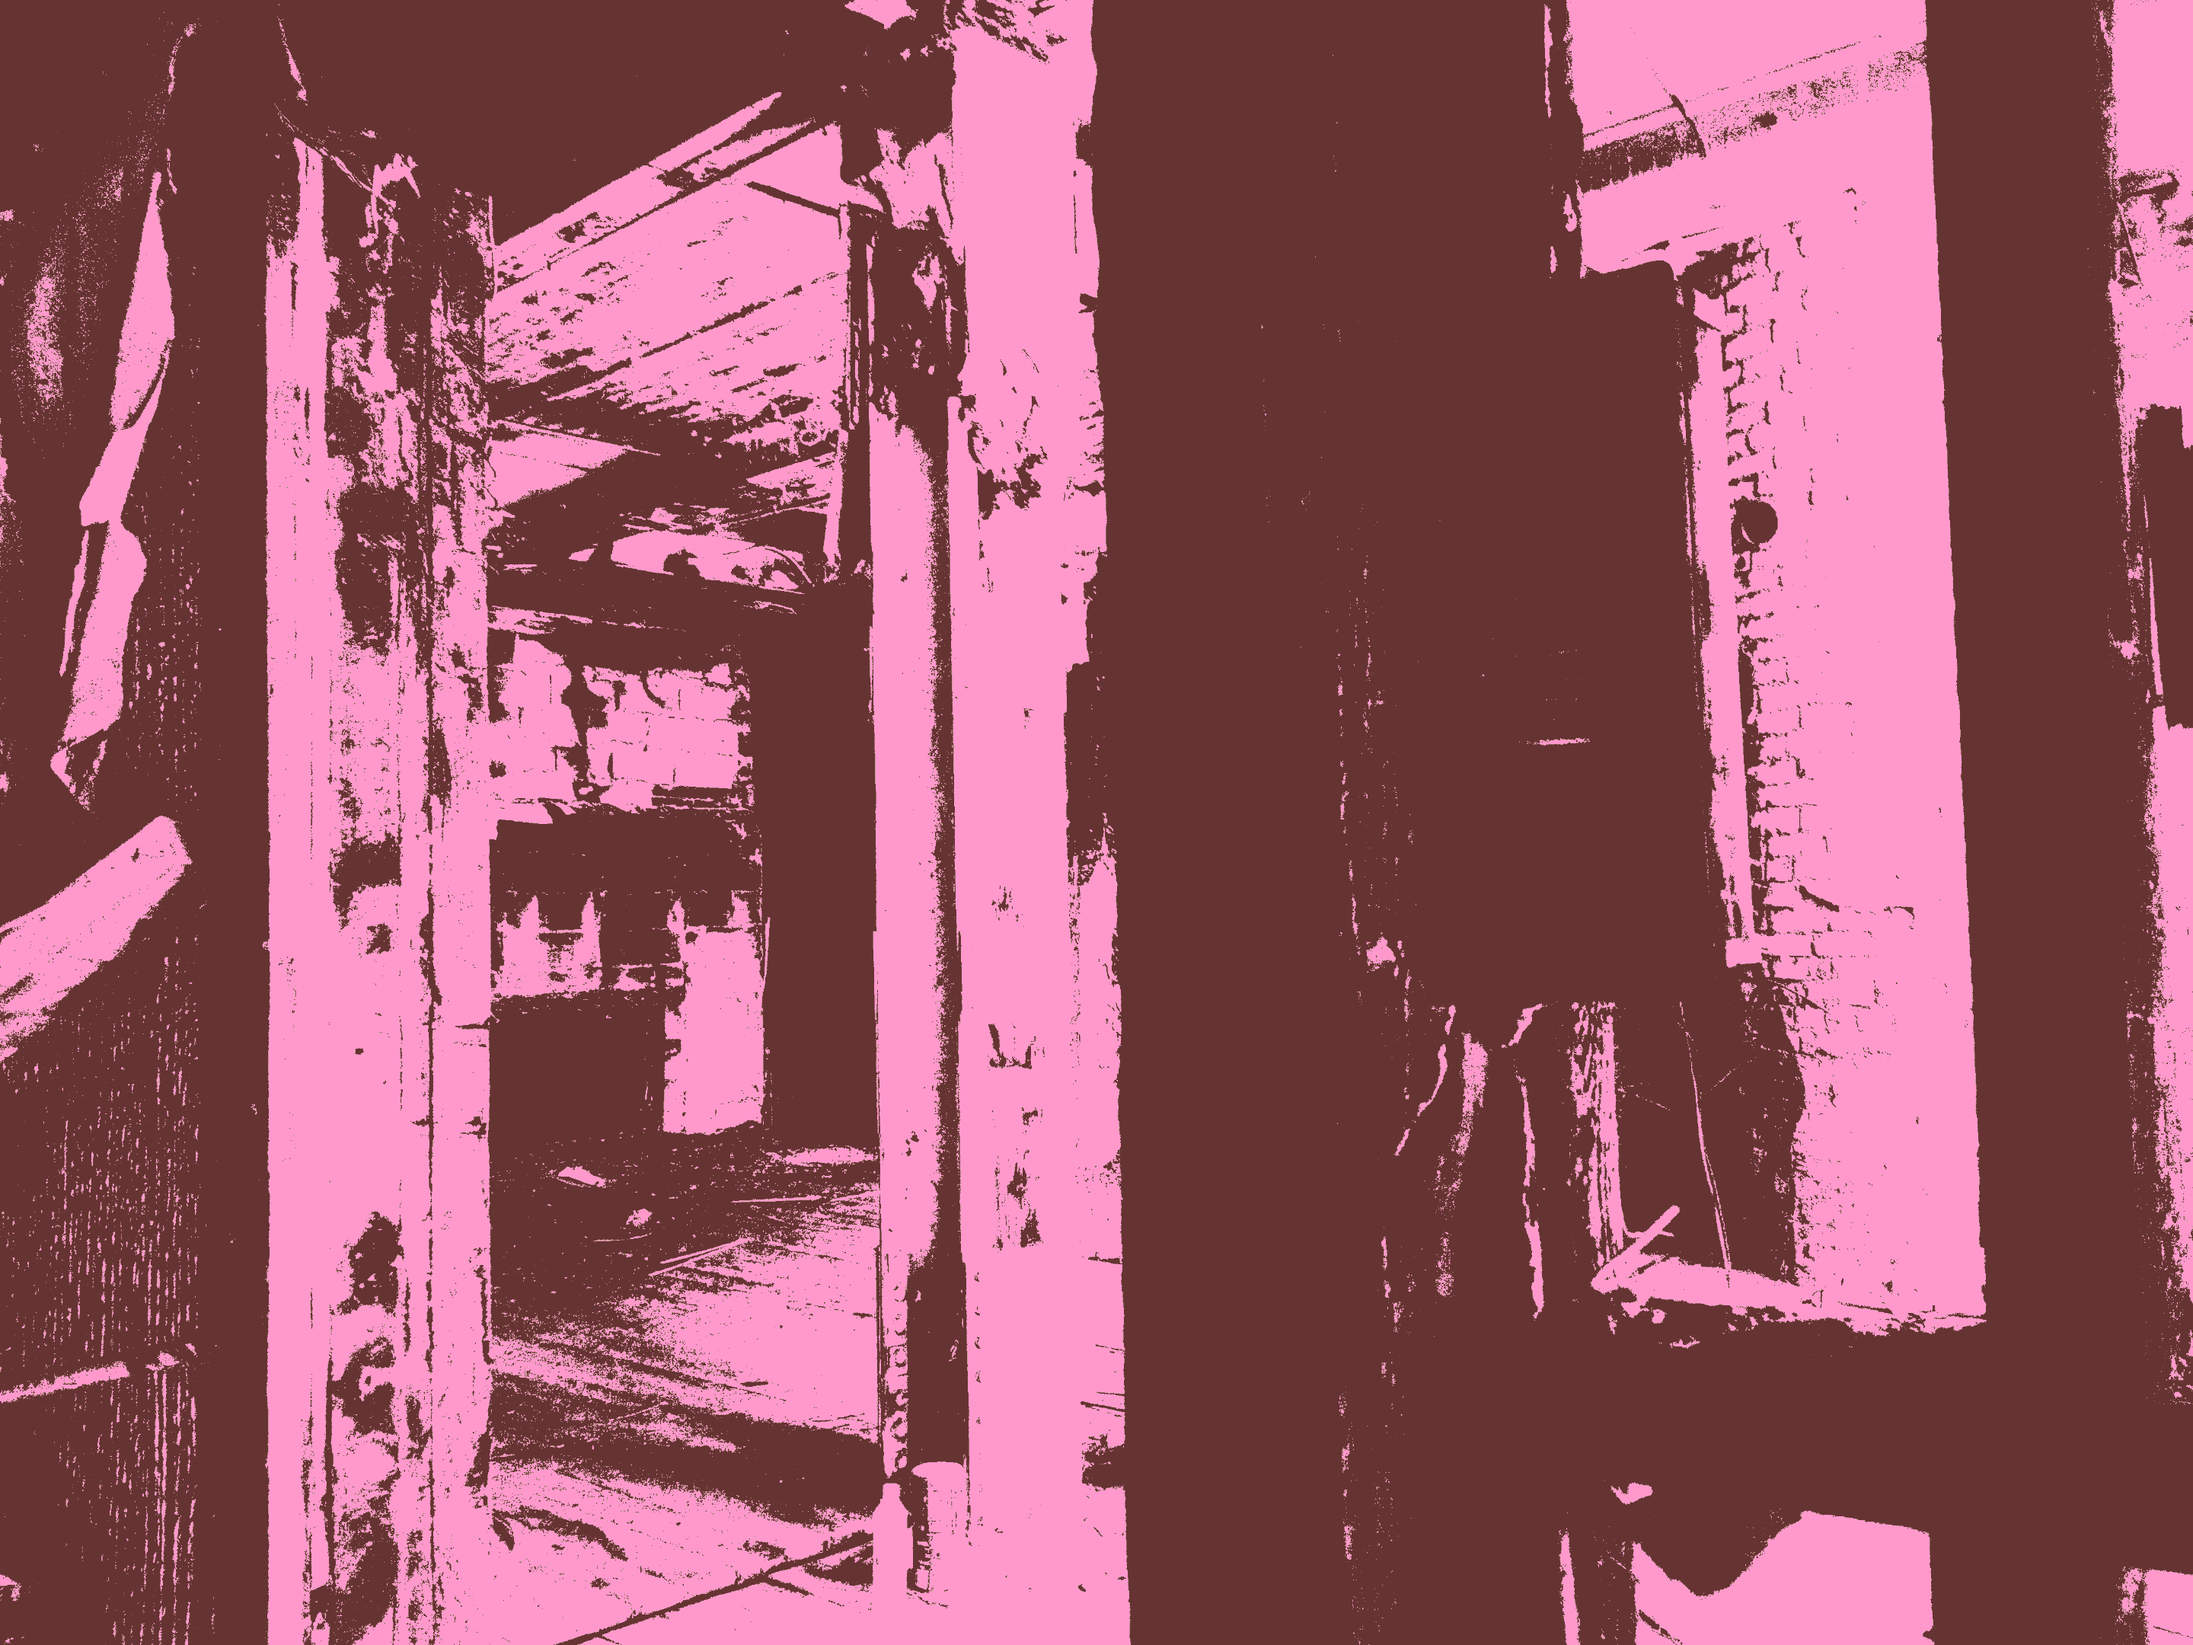
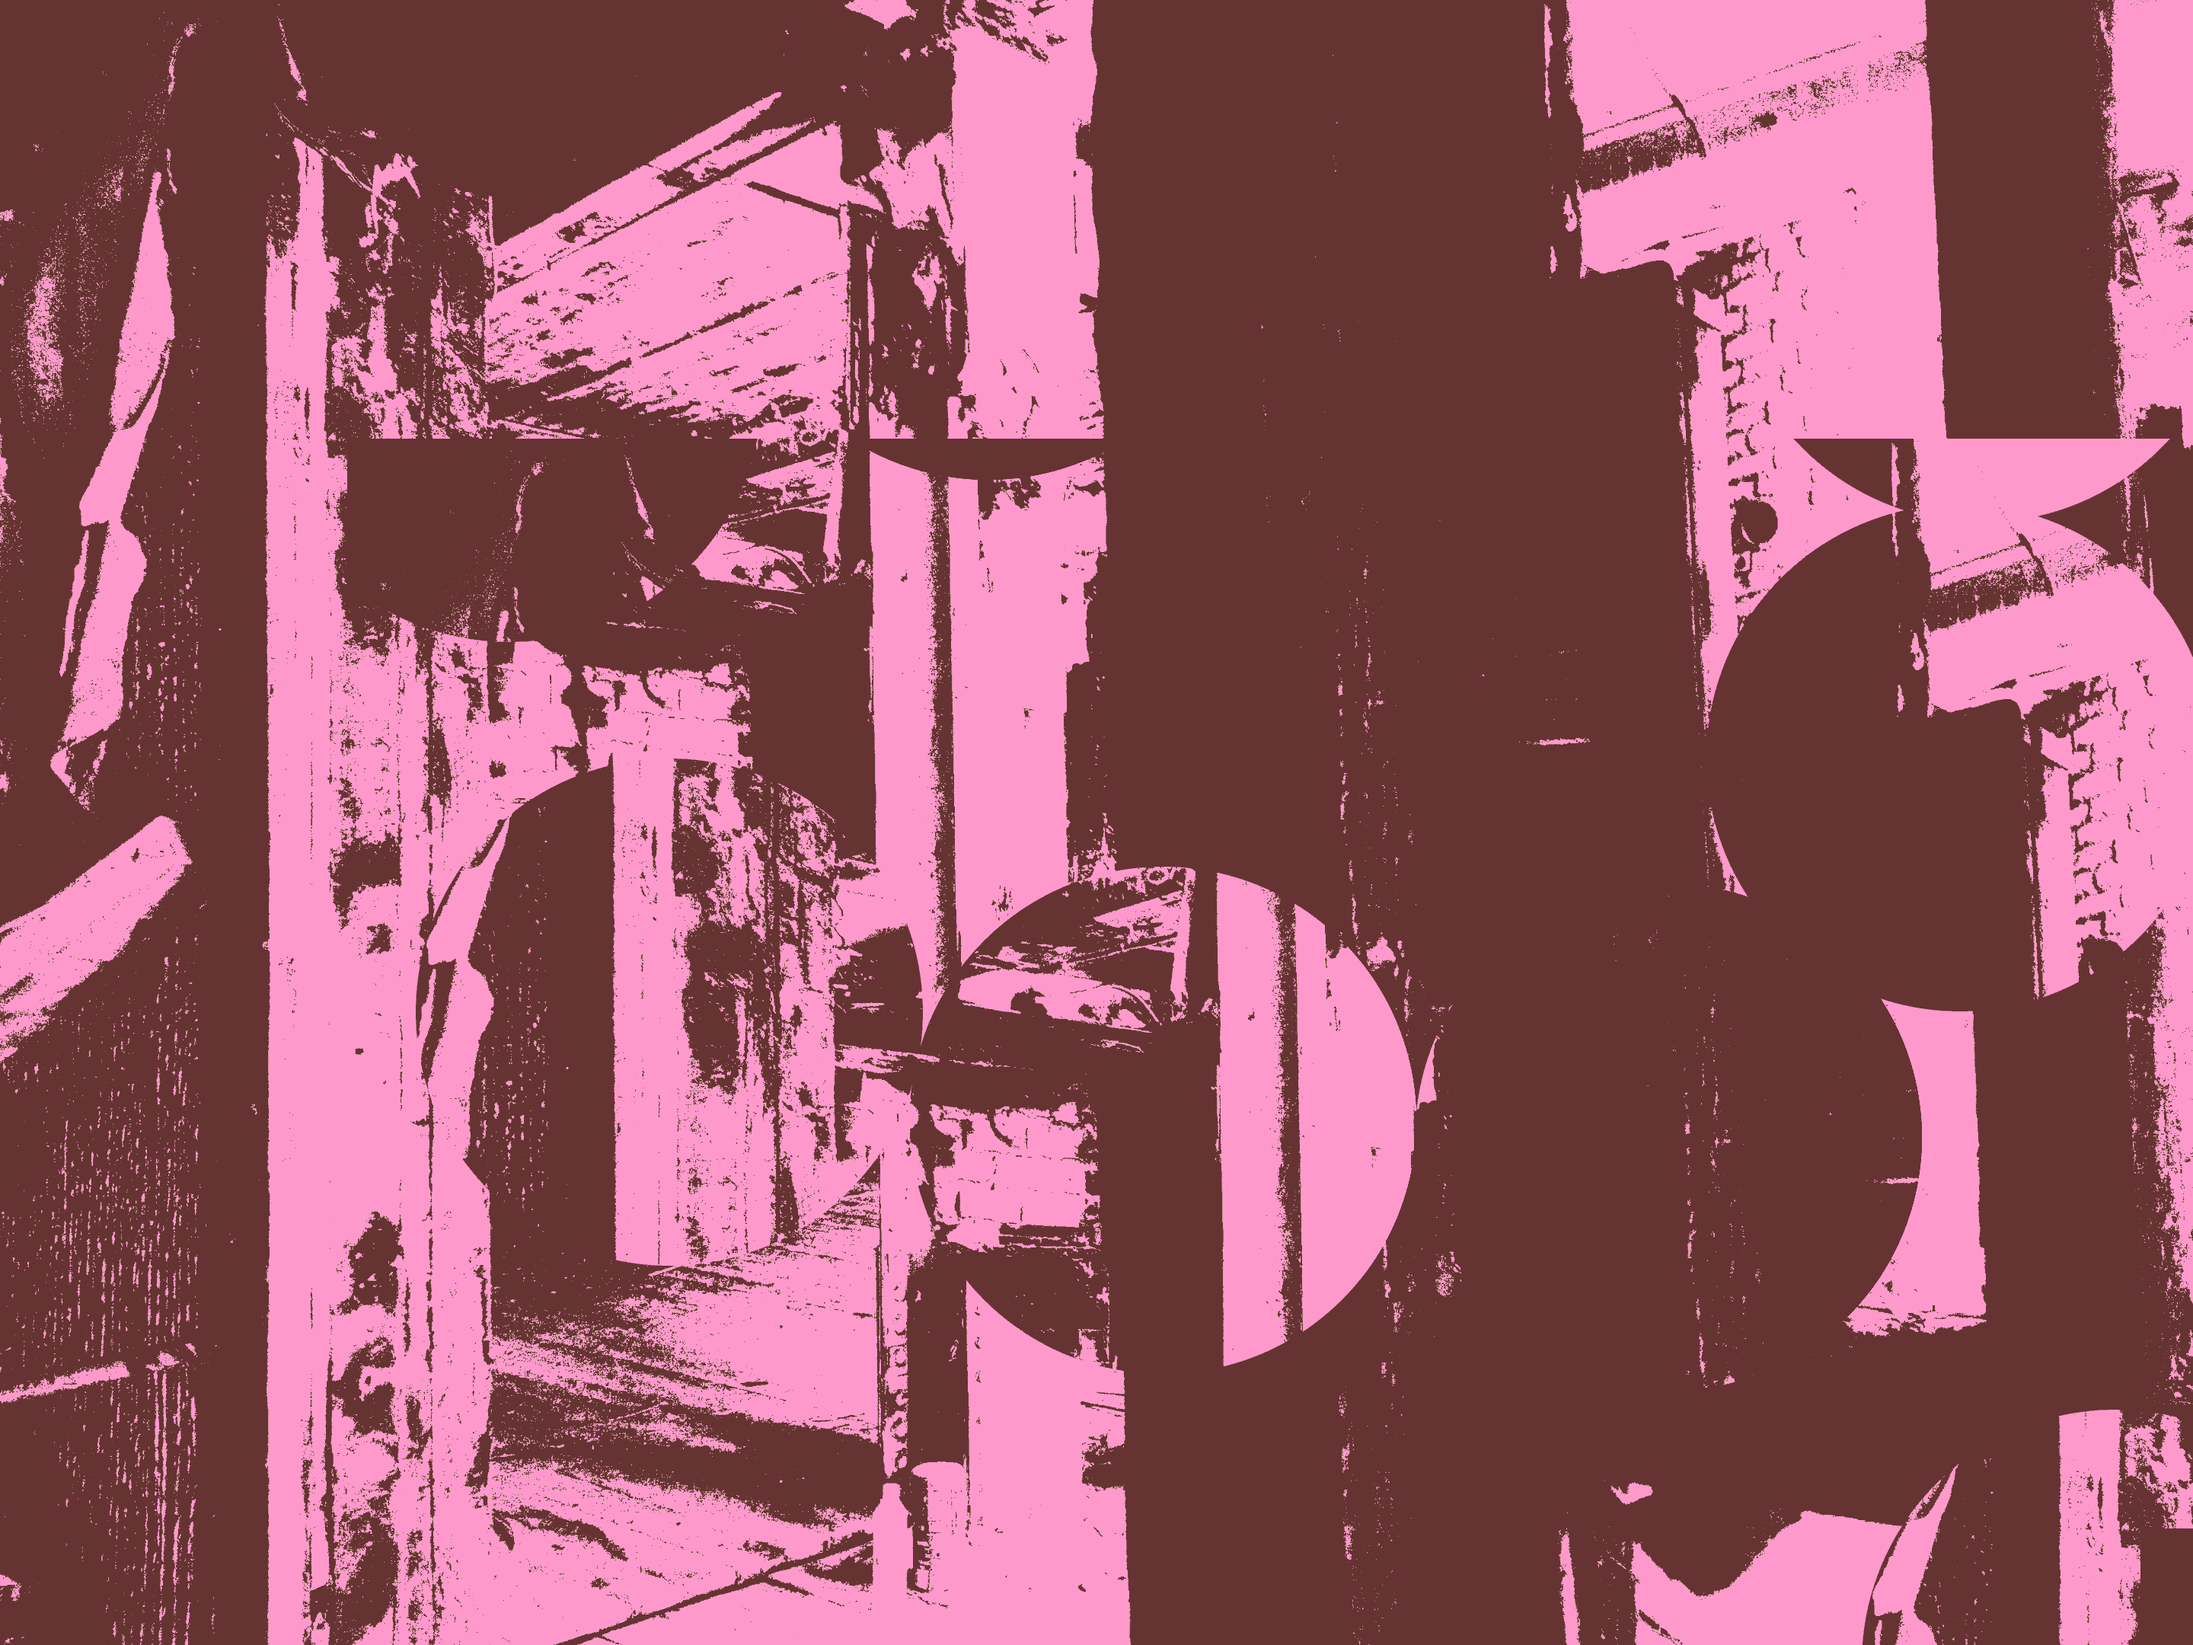
updated back image and added mobile browser color

diff --git a/source/^.html b/source/^.html
@@ -11,8 +11,9 @@
 #^------------------------------
 #^head trim=ends
 
-<link href="https://fonts.googleapis.com/css?family=Open+Sans|Paytone+One" rel="stylesheet">
 <title>{title}</title>
+<meta name="theme-color" content="#CB6A8D">
+<link href="https://fonts.googleapis.com/css?family=Open+Sans|Paytone+One" rel="stylesheet">
 <style>
 {css}
 </style>
